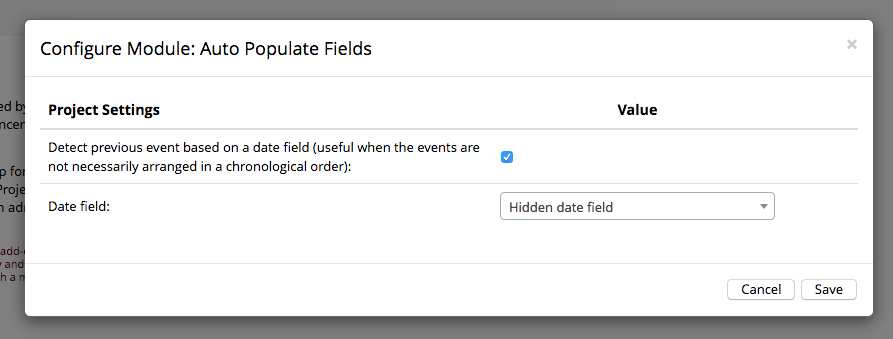
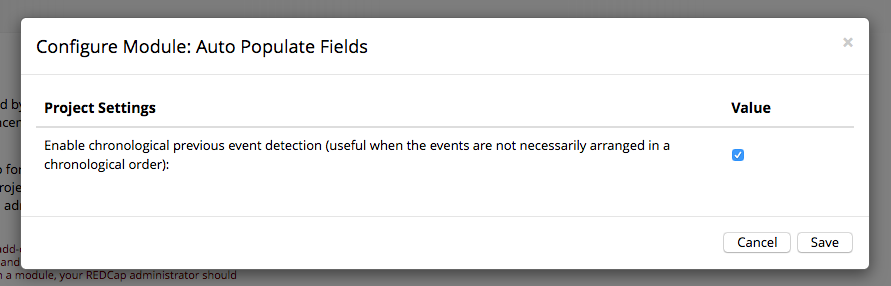
Dropping date field out and addopting an auto-detection approach.

diff --git a/ExternalModule.php b/ExternalModule.php
@@ -22,7 +22,7 @@ class ExternalModule extends AbstractExternalModule {
     /**
      * @inheritdoc
      */
-    function hook_every_page_top($project_id) {
+    function redcap_every_page_top($project_id) {
         if (!$project_id) {
             return;
         }
@@ -39,6 +39,26 @@ class ExternalModule extends AbstractExternalModule {
                 $this->setDefaultWhenVisible();
             }
         }
+    }
+
+    /**
+     * @inheritdoc
+     */
+    function redcap_module_system_enable($version) {
+        $sql = 'SELECT 1 FROM INFORMATION_SCHEMA.STATISTICS WHERE `table_schema` = DATABASE() AND `table_name` = "redcap_log_event" AND `index_name` = "project_id"';
+
+        // Indexing redcap_log_event's project_id column for performance
+        // reasons.
+        if (($q = $this->query($sql)) && !db_num_rows($q)) {
+            $this->query('ALTER TABLE `redcap_log_event` ADD INDEX `project_id` (`project_id`)');
+        }
+    }
+
+    /**
+     * @inheritdoc
+     */
+    function redcap_module_system_version_change($version, $old_version) {
+        $this->redcap_module_system_enable($version);
     }
 
     /**
@@ -85,11 +105,31 @@ class ExternalModule extends AbstractExternalModule {
             // Only consider @DEFAULT-FROM-PREVIOUS-EVENT action tag when the
             // record is already exists.
             array_unshift($action_tags_to_look, '@DEFAULT-FROM-PREVIOUS-EVENT');
+
+            if ($this->getProjectSetting('chronological_previous_event')) {
+                // Getting chronological sequence of events.
+                $events = array();
+
+                $sql = '
+                    SELECT MIN(log_event_id), event_id FROM redcap_log_event
+                    WHERE pk = "' . db_real_escape_string($_GET['id']) . '" AND
+                          project_id = "' . db_real_escape_string($Proj->project_id) . '"
+                    GROUP BY event_id
+                    ORDER BY log_event_id';
+
+                if (($q = $this->query($sql)) && db_num_rows($q)) {
+                    while ($result = db_fetch_assoc($q)) {
+                        $events[] = $result['event_id'];
+                    }
+                }
+            }
+            else {
+                $arm = $Proj->eventInfo[$_GET['event_id']]['arm_num'];
+                $events = array_keys($Proj->events[$arm]['events']);
+            }
         }
 
         $fields = empty($_GET['page']) ? $Proj->metadata : $Proj->forms[$_GET['page']]['fields'];
-        $arm = $Proj->eventInfo[$_GET['event_id']]['arm_num'];
-        $events = array_keys($Proj->events[$arm]['events']);
         $entry_num = ($double_data_entry && $user_rights['double_data'] != 0) ? '--' . $user_rights['double_data'] : '';
 
         foreach (array_keys($fields) as $field_name) {
@@ -100,10 +140,6 @@ class ExternalModule extends AbstractExternalModule {
             $action_tags = $this->getMultipleActionTagsQueue($action_tags_to_look, $misc);
             if (empty($action_tags)) {
                 continue;
-            }
-
-            if ($prev_event_field = $this->getProjectSetting('chronological_previous_event_enabled')) {
-                $prev_event_field = db_real_escape_string($this->getProjectSetting('chronological_previous_event_field'));
             }
 
             $default_value = '';
@@ -122,35 +158,21 @@ class ExternalModule extends AbstractExternalModule {
                         continue;
                     }
 
-                    if ($prev_event_field) {
-                        // Getting previous chronological event ID.
-                        $sql = '
-                            SELECT event_id FROM redcap_data
-                            WHERE record = "' . db_real_escape_string($_GET['id'])  . '" AND
-                                  project_id = "' . db_real_escape_string($Proj->project_id) . '" AND
-                                  field_name = "' . $prev_event_field . '" AND
-                                  (instance IS NULL OR instance = 1)
-                            ORDER BY value DESC LIMIT 1';
+                    $prev_event = false;
+                    $source_form = $Proj->metadata[$source_field]['form_name'];
 
-                        if (($q = $this->query($sql)) && db_num_rows($q) == 1) {
-                            $prev_event = db_fetch_assoc($q);
-                            $prev_event = $prev_event['event_id'];
+                    // Getting previous event ID.
+                    foreach ($events as $event) {
+                        if ($event == $_GET['event_id']) {
+                            break;
                         }
-                    }
-                    else {
-                        // Getting previous event ID.
-                        foreach ($events as $event) {
-                            if ($event == $_GET['event_id']) {
-                                break;
-                            }
 
-                            if (in_array($field_info['form_name'], $Proj->eventsForms[$event])) {
-                                $prev_event = $event;
-                            }
+                        if (in_array($source_form, $Proj->eventsForms[$event])) {
+                            $prev_event = $event;
                         }
                     }
 
-                    if (!isset($prev_event)) {
+                    if (!$prev_event) {
                         continue;
                     }
 

diff --git a/README.md b/README.md
@@ -35,7 +35,7 @@ Provides the possibility to define secondary, tertiary, etc default values. If `
 #### @DEFAULT-FROM-PREVIOUS-EVENT
 Sets a field's default value based on its own value in a previous event. To map the default value from another field, you may specify the source field name as a parameter to the action tag, e.g `@DEFAULT-FROM-PREVIOUS-EVENT="source_field"`. Analogously to `@DEFAULT_<N>`, `@DEFAULT-FROM-PREVIOUS-EVENT_<N>` is also provided.
 
-If your events are not necessarily arranged in a chronological order, you can setup a date field to be responsible for tracking the actual sequence of events. To do that, go to your project page, then access External Modules (at the left sidebar), and then click on Auto Populate Fields configure button:
+If your events are not necessarily arranged in a chronological order, you can enable an option to auto-detect the last chronological event. To do that, go to your project page, then access External Modules (at the left sidebar), and then click on Auto Populate Fields configuration button:
 
 ![Default from previous event configuration](img/default_from_previous_event_config.png)
 

diff --git a/CHANGELOG.md b/CHANGELOG.md
@@ -1,9 +1,9 @@
 # Change Log
 All notable changes to the Auto-Populate Fields project will be documented in this file.
 
-## [2.3.0] - 2018-07-12
+## [2.3.0] - 2018-07-13
 ### Added
-- Added option to detect previous event based on a date field (tbembersimeao)
+- Added option to chronologically detect previous event (tbembersimeao)
 
 ## [2.2] - 2017-11-22
 ### Changed
